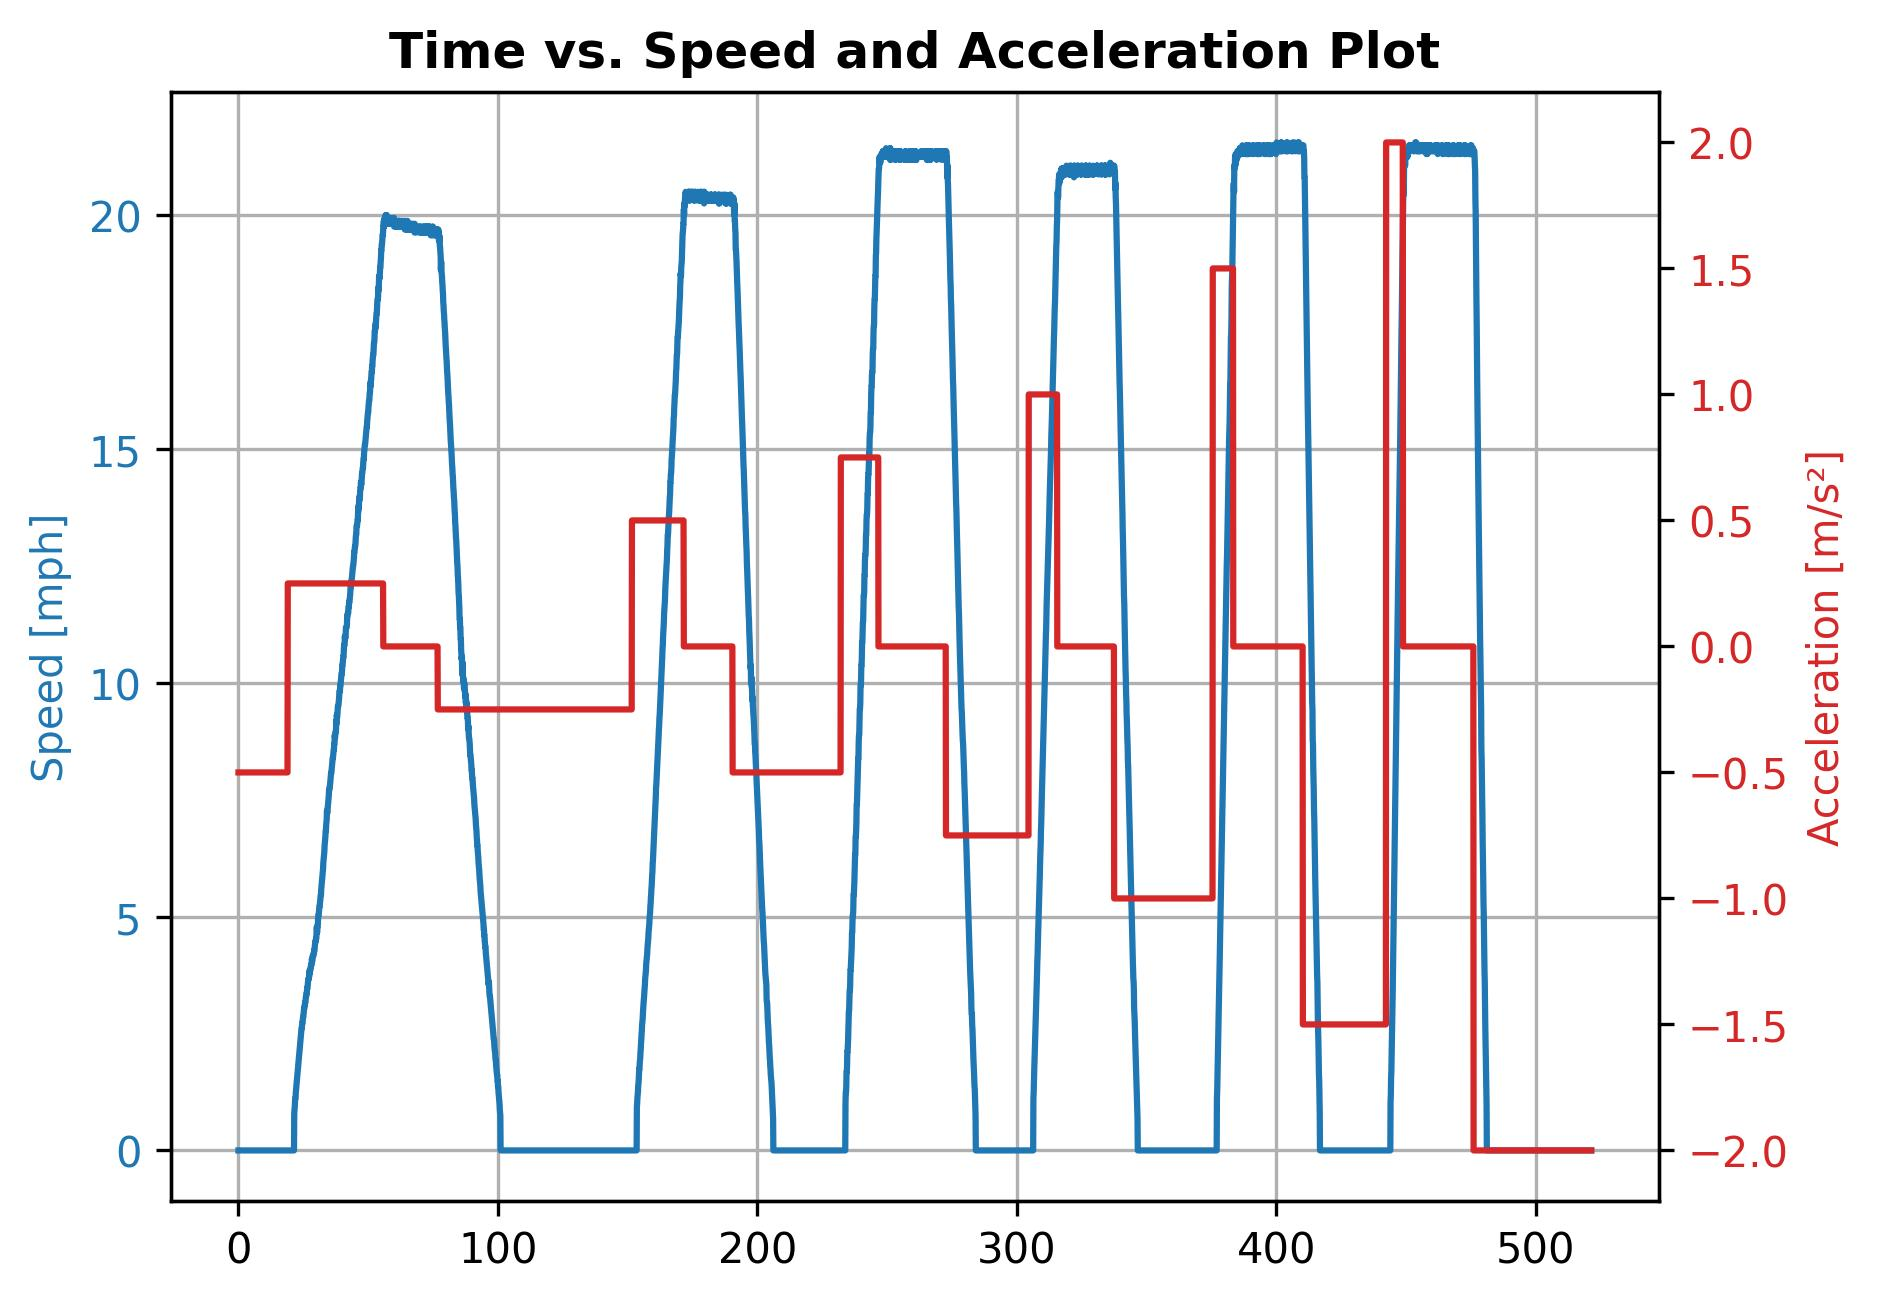
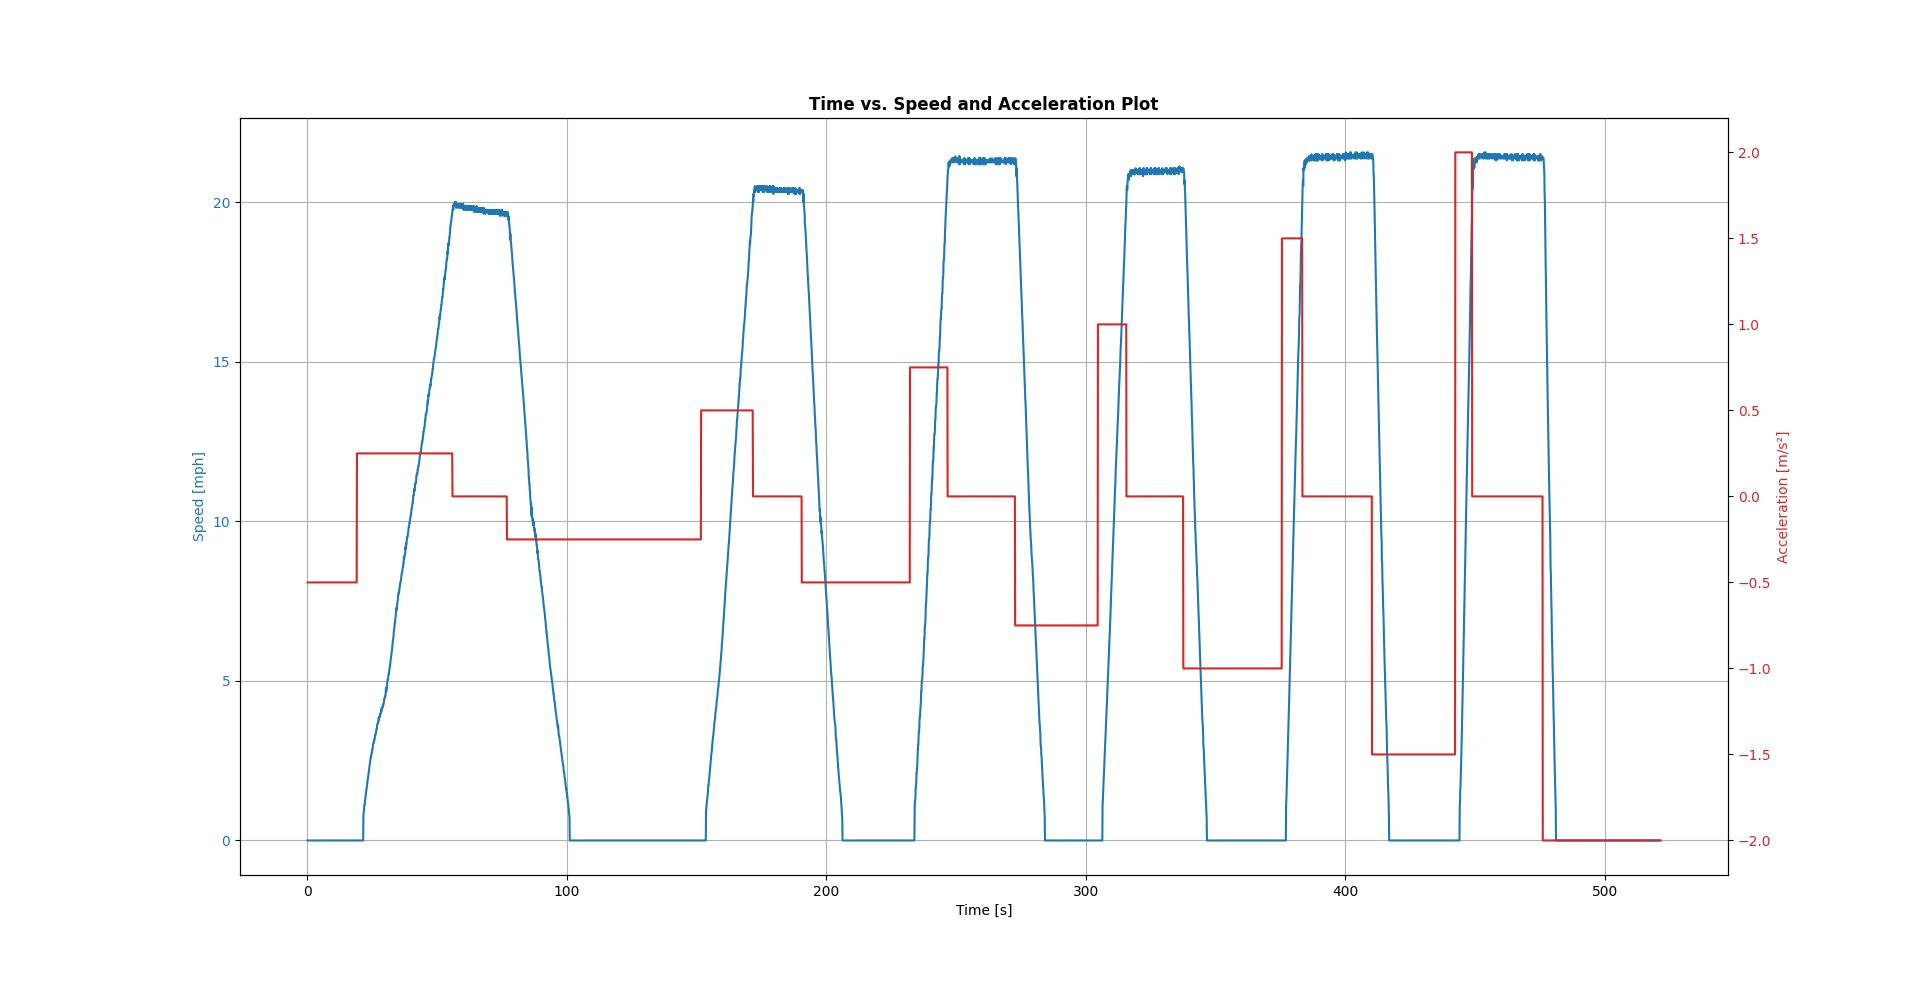
cleaned up code

diff --git a/src/tools/xil-data-analysis/2018-Honda-Accord/DataManager.py b/src/tools/xil-data-analysis/2018-Honda-Accord/DataManager.py
@@ -98,7 +98,7 @@ class DataManager:
         # # self.get_groups_channels_name()
         self.calculate_acceleration_achv()
         # self.save_data_to_csv()
-        # self.plot_manager.plot_primary_yaxis(self.time_data, self.speed_data_mph, "Time [s]", "Speed [mph]", "Time vs. Speed Plot", "0-20_mph_time_vs_speed")
-        # self.plot_manager.plot_primary_secondary_yaxis(self.time_data, self.speed_data_mph, self.accel_data, "Time [s]", "Speed [mph]", "Acceleration [m/s²]", "Time vs. Speed and Acceleration Plot", "0-20_mph_time_vs_speed_Accel")      
-        # self.plot_manager.plot_primary_secondary_yaxis(self.time_data, self.speed_data_mph, self.accel_achv, "Time [s]", "Speed [mph]", "Acceleration [m/s²]", "Time vs. Speed and Acceleration Plot", "0-20_mph_time_vs_speed_Accel_achv")
+        self.plot_manager.plot_primary_yaxis(self.time_data, self.speed_data_mph, "Time [s]", "Speed [mph]", "Time vs. Speed Plot", "0-20_mph_time_vs_speed")
+        self.plot_manager.plot_primary_secondary_yaxis(self.time_data, self.speed_data_mph, self.accel_data, "Time [s]", "Speed [mph]", "Acceleration [m/s²]", "Time vs. Speed and Acceleration Plot", "0-20_mph_time_vs_speed_Accel")      
+        self.plot_manager.plot_primary_secondary_yaxis(self.time_data, self.speed_data_mph, self.accel_achv, "Time [s]", "Speed [mph]", "Acceleration [m/s²]", "Time vs. Speed and Acceleration Plot", "0-20_mph_time_vs_speed_Accel_achv")
         self.plot_manager.plot_twice_secondary_yaxis(self.time_data, self.speed_data_mph, self.accel_data, self.accel_achv, "Time [s]", "Speed [mph]", "Acceleration [m/s²]",  "Time vs. Speed and Acceleration Plot", "0-20_mph_time_vs_speed_Accel_rqst_achv")

diff --git a/src/tools/xil-data-analysis/2018-Honda-Accord/PlotManager.py b/src/tools/xil-data-analysis/2018-Honda-Accord/PlotManager.py
@@ -21,6 +21,7 @@ class PlotManager:
         if self.title_status: 
             plt.title(title, fontweight='bold')
         # plt.xlabel(x_label, color='tab:green')
+        plt.xlabel(x_label)
         plt.ylabel(y_label, color='tab:blue')
         plt.tick_params(axis='both', which='major')
         plt.grid(True)
@@ -44,6 +45,7 @@ class PlotManager:
         # ax1.tick_params(axis='y', labelcolor='tab:blue', labelsize=12)
         # ax1.tick_params(axis='x', labelsize=12)  # Set label size for x-axis ticks
         # ax1.set_xlabel(x_label, color='tab:green')
+        ax1.set_xlabel(x_label)
         ax1.set_ylabel(y_label1, color='tab:blue')
         primary_axis_line, = ax1.plot(x_data, y_data1, color='tab:blue', label='Speed')
         ax1.tick_params(axis='y', labelcolor='tab:blue')
@@ -81,6 +83,7 @@ class PlotManager:
         fig, ax1 = plt.subplots()
 
         # ax1.set_xlabel(x_label, color='tab:green')
+        ax1.set_xlabel(x_label)
         ax1.set_ylabel(y_label1, color='tab:blue')
         primary_axis_line, = ax1.plot(x_data, y_data1, color='tab:blue', label='Speed[mph]')
         ax1.tick_params(axis='y', labelcolor='tab:blue')
@@ -104,7 +107,7 @@ class PlotManager:
         
         if self.plot_save:
             file_directory = "figure/" + fileName + ".jpg"
-            plt.savefig(file_directory, bbox_inches='tight', dpi=600)
+            plt.savefig(file_directory, bbox_inches='tight', dpi=300)
             print("saved file")
         else:
             plt.show()
